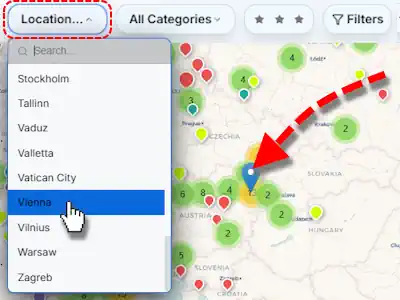
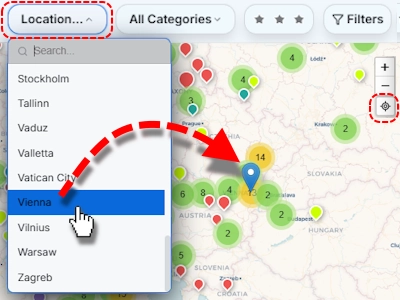
update help data

diff --git a/src/data/helpData.js b/src/data/helpData.js
@@ -1,19 +1,59 @@
 export const HELP_ITEMS = [
     { id: 'location',
         title: 'Location',
-        image: '/assets/images/Help_Location.webp',
-        content: 'Use the location menu to center the map on European capitals. A blue pointer will appear on the selected location.' },
+        imagePc: '/assets/images/Help_Location.webp',// Large horizontal image
+        imageMobile: '/assets/images/Help_Location_M.webp', // Tall vertical image
+        content: 'Use the location menu to center the map on European capitals. A blue pointer will appear on the selected location. The location icon allows you to center the map to the selected city.' },
+    { id: 'GPS location',
+        title: 'My GPS Location',
+        imagePc: '/assets/images/Help_GPSLocation.webp',
+        imageMobile: '/assets/images/Help_GPSLocation_M.webp',
+        content: 'You have to authorize the app to access your location to use this feature. Use the location icon to center the map on your current position.' },
+    { id: 'All Areas',
+        title: 'All Areas',
+        imagePc: '/assets/images/Help_AllAreas.webp',
+        imageMobile: '/assets/images/Help_AllAreas_M.webp',
+        content: 'When a "location" is selected the "All Areas" filter will be activated. Select an area to locate "nAPPo sites" arround you' },
     { id: 'categories',
         title: 'Categories',
-        image: '/assets/help/categories.webp',
-        content: 'Filter sites by type: Battle sites, Museums, Monuments, and more...' },
-    { id: 'battle_sites', title: 'Battle sites', image: '/assets/help/battles.webp', content: 'Detailed information about Napoleonic engagements...' },
-    { id: 'significance', title: 'Significance', image: '/assets/help/significance.webp', content: 'Stars represent the historical importance of the site...' },
-    { id: 'filters', title: 'Filters', image: '/assets/help/filters.webp', content: 'Combine multiple criteria to find specific sites...' },
-    { id: 'news', title: 'News', image: '/assets/help/news.webp', content: 'Stay updated with the latest additions to the map...' },
-    { id: 'market', title: 'Market', image: '/assets/help/market.webp', content: 'Purchase official prints and books...' },
-    { id: 'events', title: 'Events', image: '/assets/help/events.webp', content: 'Reenactments and historical gatherings...' },
-    { id: 'calendar', title: 'Calendar', image: '/assets/help/calendar.webp', content: 'Browse events and battles by date...' },
-    { id: 'list_mode', title: 'List Mode', image: '/assets/help/list.webp', content: 'Switch to a text-based searchable list of all sites...' },
-    { id: 'settings', title: 'Settings', image: '/assets/help/settings.webp', content: 'Configure theme, cluster density, and app behavior...' },
+        imagePc: '/assets/images/Help_Categories.webp',
+        imageMobile: '/assets/images/Help_Categories_M.webp',
+        content: 'Select a category to filter sites by type: Battle sites, Museums, Monuments, and more...' },
+    { id: 'multiplecategories',
+        title: 'Multiple Categories',
+        imagePc: '/assets/images/Help_Multiple_Categories.webp',
+        imageMobile: '/assets/images/Help_Multiple_Categories_M.webp',
+        content: 'More than one category can be selected at the same time. The total sites counter will show the total of them. If "Battle sites" are selected with other non battle category, the special filters for battles will be closed.' },
+    { id: 'battle_site', 
+        title: 'Battle site', 
+        imagePc: '/assets/images/Help_BattleSite.webp',
+        imageMobile: '/assets/images/Help_BattleSite_M.webp',
+        content: 'When "Battle Site" category is selected three additional filters will be activated. "Year", "Commander" and "Acr de Triomphe"' },
+    { id: 'year', 
+        title: 'All Years', 
+        imagePc: '/assets/images/Help_Years.webp',
+        imageMobile: '/assets/images/Help_Years_M.webp',
+        content: 'The "All Years" filter will show you the battlefields for the selected year. The number in brackets indicates the count of sites available for that year.' },
+    { id: 'commanders', 
+        title: 'All Commanders', 
+        imagePc: '/assets/images/Help_Commanders.webp',
+        imageMobile: '/assets/images/Help_Commanders_M.webp',
+        content: 'The "All Commanders" filter will show you the battlefields for the selected commander. The number in brackets indicates the count of sites a vailable for that commander.' },
+    { id: 'arc', 
+        title: 'Arc de Triomphe', 
+        imagePc: '/assets/images/Help_Arc.webp',
+        imageMobile: '/assets/images/Help_Arc_M.webp',
+        content: 'The "Arc de Triomphe" filter show you the battlefields included in the app listed at the Arc de Triomphe in Paris fought during the Napoleonic Wars or fought by Napoleon during the French Revolution Wars.' },
+    { id: 'significance', 
+        title: 'Stars', 
+        imagePc: '/assets/images/Help_Stars.webp',
+        imageMobile: '/assets/images/Help_Stars_M.webp',
+        content: 'Stars represent the historical importance of the site. Site Pin size increases with significance. Press again the third star and will show all sites.' },
+    { id: 'filters', title: 'Filters', image: '/assets/images/filters.webp', content: 'Combine multiple criteria to find specific sites...' },
+    { id: 'news', title: 'News', image: '/assets/images/news.webp', content: 'Stay updated with the latest additions to the map...' },
+    { id: 'market', title: 'Market', image: '/assets/images/market.webp', content: 'Purchase official prints and books...' },
+    { id: 'events', title: 'Events', image: '/assets/images/events.webp', content: 'Reenactments and historical gatherings...' },
+    { id: 'calendar', title: 'Calendar', image: '/assets/images/calendar.webp', content: 'Browse events and battles by date...' },
+    { id: 'list_mode', title: 'List Mode', image: '/assets/images/list.webp', content: 'Switch to a text-based searchable list of all sites...' },
+    { id: 'settings', title: 'Settings', image: '/assets/images/settings.webp', content: 'Configure theme, cluster density, and app behavior...' },
 ]

diff --git a/src/components/HelpCard_FirstFormat.jsx b/src/components/HelpCard_FirstFormat.jsx
@@ -3,34 +3,27 @@ import { useAppContext } from '../context/AppContext';
 import { X } from 'lucide-react';
 
 const HelpCard = () => {
-    // Get state and device mode from context
-    const { selectedHelpItem, setSelectedHelpItem, isMobileLike } = useAppContext();
+    const { selectedHelpItem, setSelectedHelpItem } = useAppContext();
 
-    // If nothing is selected, show nothing
     if (!selectedHelpItem) return null;
 
-    // Determine which image to show based on the device mode
-    const displayImage = isMobileLike
-        ? (selectedHelpItem.imageMobile || selectedHelpItem.image)
-        : (selectedHelpItem.imagePc || selectedHelpItem.image);
-
     return (
-        /* The Overlay: Covers the whole screen and centers the card */
+        /* The Overlay: Covers the whole screen */
         <div style={{
             position: 'fixed',
             top: 0,
             left: 0,
             width: '100vw',
             height: '100vh',
-            backgroundColor: 'rgba(0, 0, 0, 0.6)',
+            backgroundColor: 'rgba(0, 0, 0, 0.6)', // Dims the background
             display: 'flex',
             justifyContent: 'center',
             alignItems: 'center',
-            zIndex: 999999,
+            zIndex: 999999, // Stays above the map and header
             padding: '20px'
         }} onClick={() => setSelectedHelpItem(null)}>
 
-            {/* The Card: Same format for PC and Mobile */}
+            {/* The Card: Centered */}
             <div
                 className="glass-panel animate-pop-in"
                 style={{
@@ -67,11 +60,10 @@ const HelpCard = () => {
                     <X size={18} strokeWidth={3} />
                 </button>
 
-                {/* Taller Image Area (Fixed 300px height as requested) */}
-                {displayImage && (
-                    <div style={{ width: '100%', height: '300px', backgroundColor: '#f0f0f0' }}>
+                {selectedHelpItem.image && (
+                    <div style={{ width: '100%', height: '300px' }}>
                         <img
-                            src={displayImage}
+                            src={selectedHelpItem.image}
                             alt=""
                             style={{ width: '100%', height: '100%', objectFit: 'cover' }}
                         />
@@ -79,10 +71,10 @@ const HelpCard = () => {
                 )}
 
                 <div style={{ padding: '24px' }}>
-                    <h2 style={{ margin: '0 0 10px 0', color: 'var(--accent-primary)', fontSize: '1.4rem' }}>
+                    <h2 style={{ margin: '0 0 10px 0', color: 'var(--accent-primary)' }}>
                         {selectedHelpItem.title}
                     </h2>
-                    <p style={{ lineHeight: '1.6', color: '#444', margin: 0, fontSize: '1.05rem' }}>
+                    <p style={{ lineHeight: '1.6', color: '#444', margin: 0 }}>
                         {selectedHelpItem.content}
                     </p>
                 </div>

diff --git a/src/components/MapView.jsx b/src/components/MapView.jsx
@@ -106,14 +106,7 @@ const LocationMarker = ({ isFiltered }) => {
                     animate: true,
                     duration: 1.2
                 });
-            /* borrar si funciona
-                map.stop();
-                map.flyTo(target, map.getZoom(), {
-                    duration: 1.2,
-                    easeLinearity: 0.25,
-                    animate: true,
-                    noMoveStart: true // Prevents Leaflet from firing extra move events during start
-                }); */
+
             }
         }
     }, [userCoords?.lat, userCoords?.lon, isFiltered, map]);
@@ -214,6 +207,21 @@ const MapView = () => {
         `;
     }, [theme]);
 
+    // Inside the MapView component
+    useEffect(() => {
+        const handleBackButton = (event) => {
+            // If there is a selected site, close it and prevent browser navigation
+            if (selectedSite) {
+                setSelectedSite(null);
+                // We stay on the page because we handle the 'back' logic manually
+            }
+        };
+        window.addEventListener('popstate', handleBackButton);
+        return () => {
+            window.removeEventListener('popstate', handleBackButton);
+        };
+    }, [selectedSite, setSelectedSite]);
+
     const MapEventsHandler = () => {
         useMapEvents({ click: () => setSelectedSite(null) });
         return null;
@@ -308,6 +316,7 @@ const MapView = () => {
                             eventHandlers={{
                                 click: (e) => {
                                     if (e.originalEvent) e.originalEvent.stopPropagation();
+                                    window.history.pushState({ siteId: site.id }, "");
                                     if (selectedSite) setSelectedSite(null);
                                     const map = e.target._map;
                                     const latlng = e.target.getLatLng();

diff --git a/src/components/HelpCard.css b/src/components/HelpCard.css
@@ -1,0 +1,47 @@
+/* SHARED CLOSE BUTTON (Red Circle) */
+.help-close-red {
+    position: absolute;
+    top: -12px;
+    right: -12px;
+    background: #ff4444;
+    color: white;
+    border: 2px solid white;
+    border-radius: 50%;
+    width: 32px;
+    height: 32px;
+    cursor: pointer;
+    z-index: 100;
+}
+
+/* MOBILE STYLE (News-style Popup) */
+.mobile-help-overlay {
+    position: fixed;
+    top: 0; left: 0; width: 100vw; height: 100vh;
+    background: rgba(0,0,0,0.7);
+    display: flex; justify-content: center; align-items: center;
+    z-index: 99999; padding: 20px;
+}
+.help-card-mobile {
+    width: 100%; max-width: 380px;
+    background: white; border-radius: 20px; overflow: hidden;
+    position: relative;
+}
+.help-img-mobile { width: 100%; height: 250px; object-fit: cover; }
+.help-content-mobile { padding: 20px; color: #333; }
+
+/* PC STYLE (Larger Dialog) */
+.pc-help-overlay {
+    position: fixed;
+    top: 0; left: 0; width: 100vw; height: 100vh;
+    background: rgba(0,0,0,0.5);
+    display: flex; justify-content: center; align-items: center;
+    z-index: 99999;
+}
+.help-card-pc {
+    width: 800px; /* Wider for PC */
+    background: white; border-radius: 12px;
+    position: relative; padding: 30px;
+}
+.help-pc-layout { display: flex; gap: 30px; }
+.help-img-pc { width: 350px; height: 400px; object-fit: cover; border-radius: 8px; }
+.help-text-pc { flex: 1; text-align: left; color: #222; }

diff --git a/src/components/CustomCategorySelect.jsx b/src/components/CustomCategorySelect.jsx
@@ -23,7 +23,7 @@ const CustomCategorySelect = ({ categories, value, onChange, categoryCounts = {}
             case 'Monument': return '#26a69a';
             case 'Landmark': return '#ccff00';
             case 'Restaurant': return '#795548';
-            case 'Store': return '#ffffff';
+            case 'Store': return '#001ECC';
             case 'Movie tip': return '#2c0d55ff';
             default: return '#8b949e';
         }

diff --git a/src/context/AppContext.jsx b/src/context/AppContext.jsx
@@ -45,6 +45,7 @@ export const EUROPEAN_CAPITALS = [
     { name: "Brussels", lat: 50.8503, lon: 4.3517 },
     { name: "Bucharest", lat: 44.4268, lon: 26.1025 },
     { name: "Budapest", lat: 47.4979, lon: 19.0402 },
+    { name: "Cairo", lat: 30.0444, lon: 31.2357 },
     { name: "Copenhagen", lat: 55.6761, lon: 12.5683 },
     { name: "Dublin", lat: 53.3498, lon: -6.2603 },
     { name: "Helsinki", lat: 60.1695, lon: 24.9354 },

diff --git a/src/components/SiteCard.jsx b/src/components/SiteCard.jsx
@@ -18,7 +18,7 @@ export const getCategoryColor = (category) => {
         'Monument': '#26a69a',
         'Landmark': '#ccff00',
         'Restaurant': '#795548',
-        'Store': '#ffffff',
+        'Store': '#001ECC',
         'Movie tip': '#2c0d55ff',
     };
     return colors[category] || '#8b949e';
